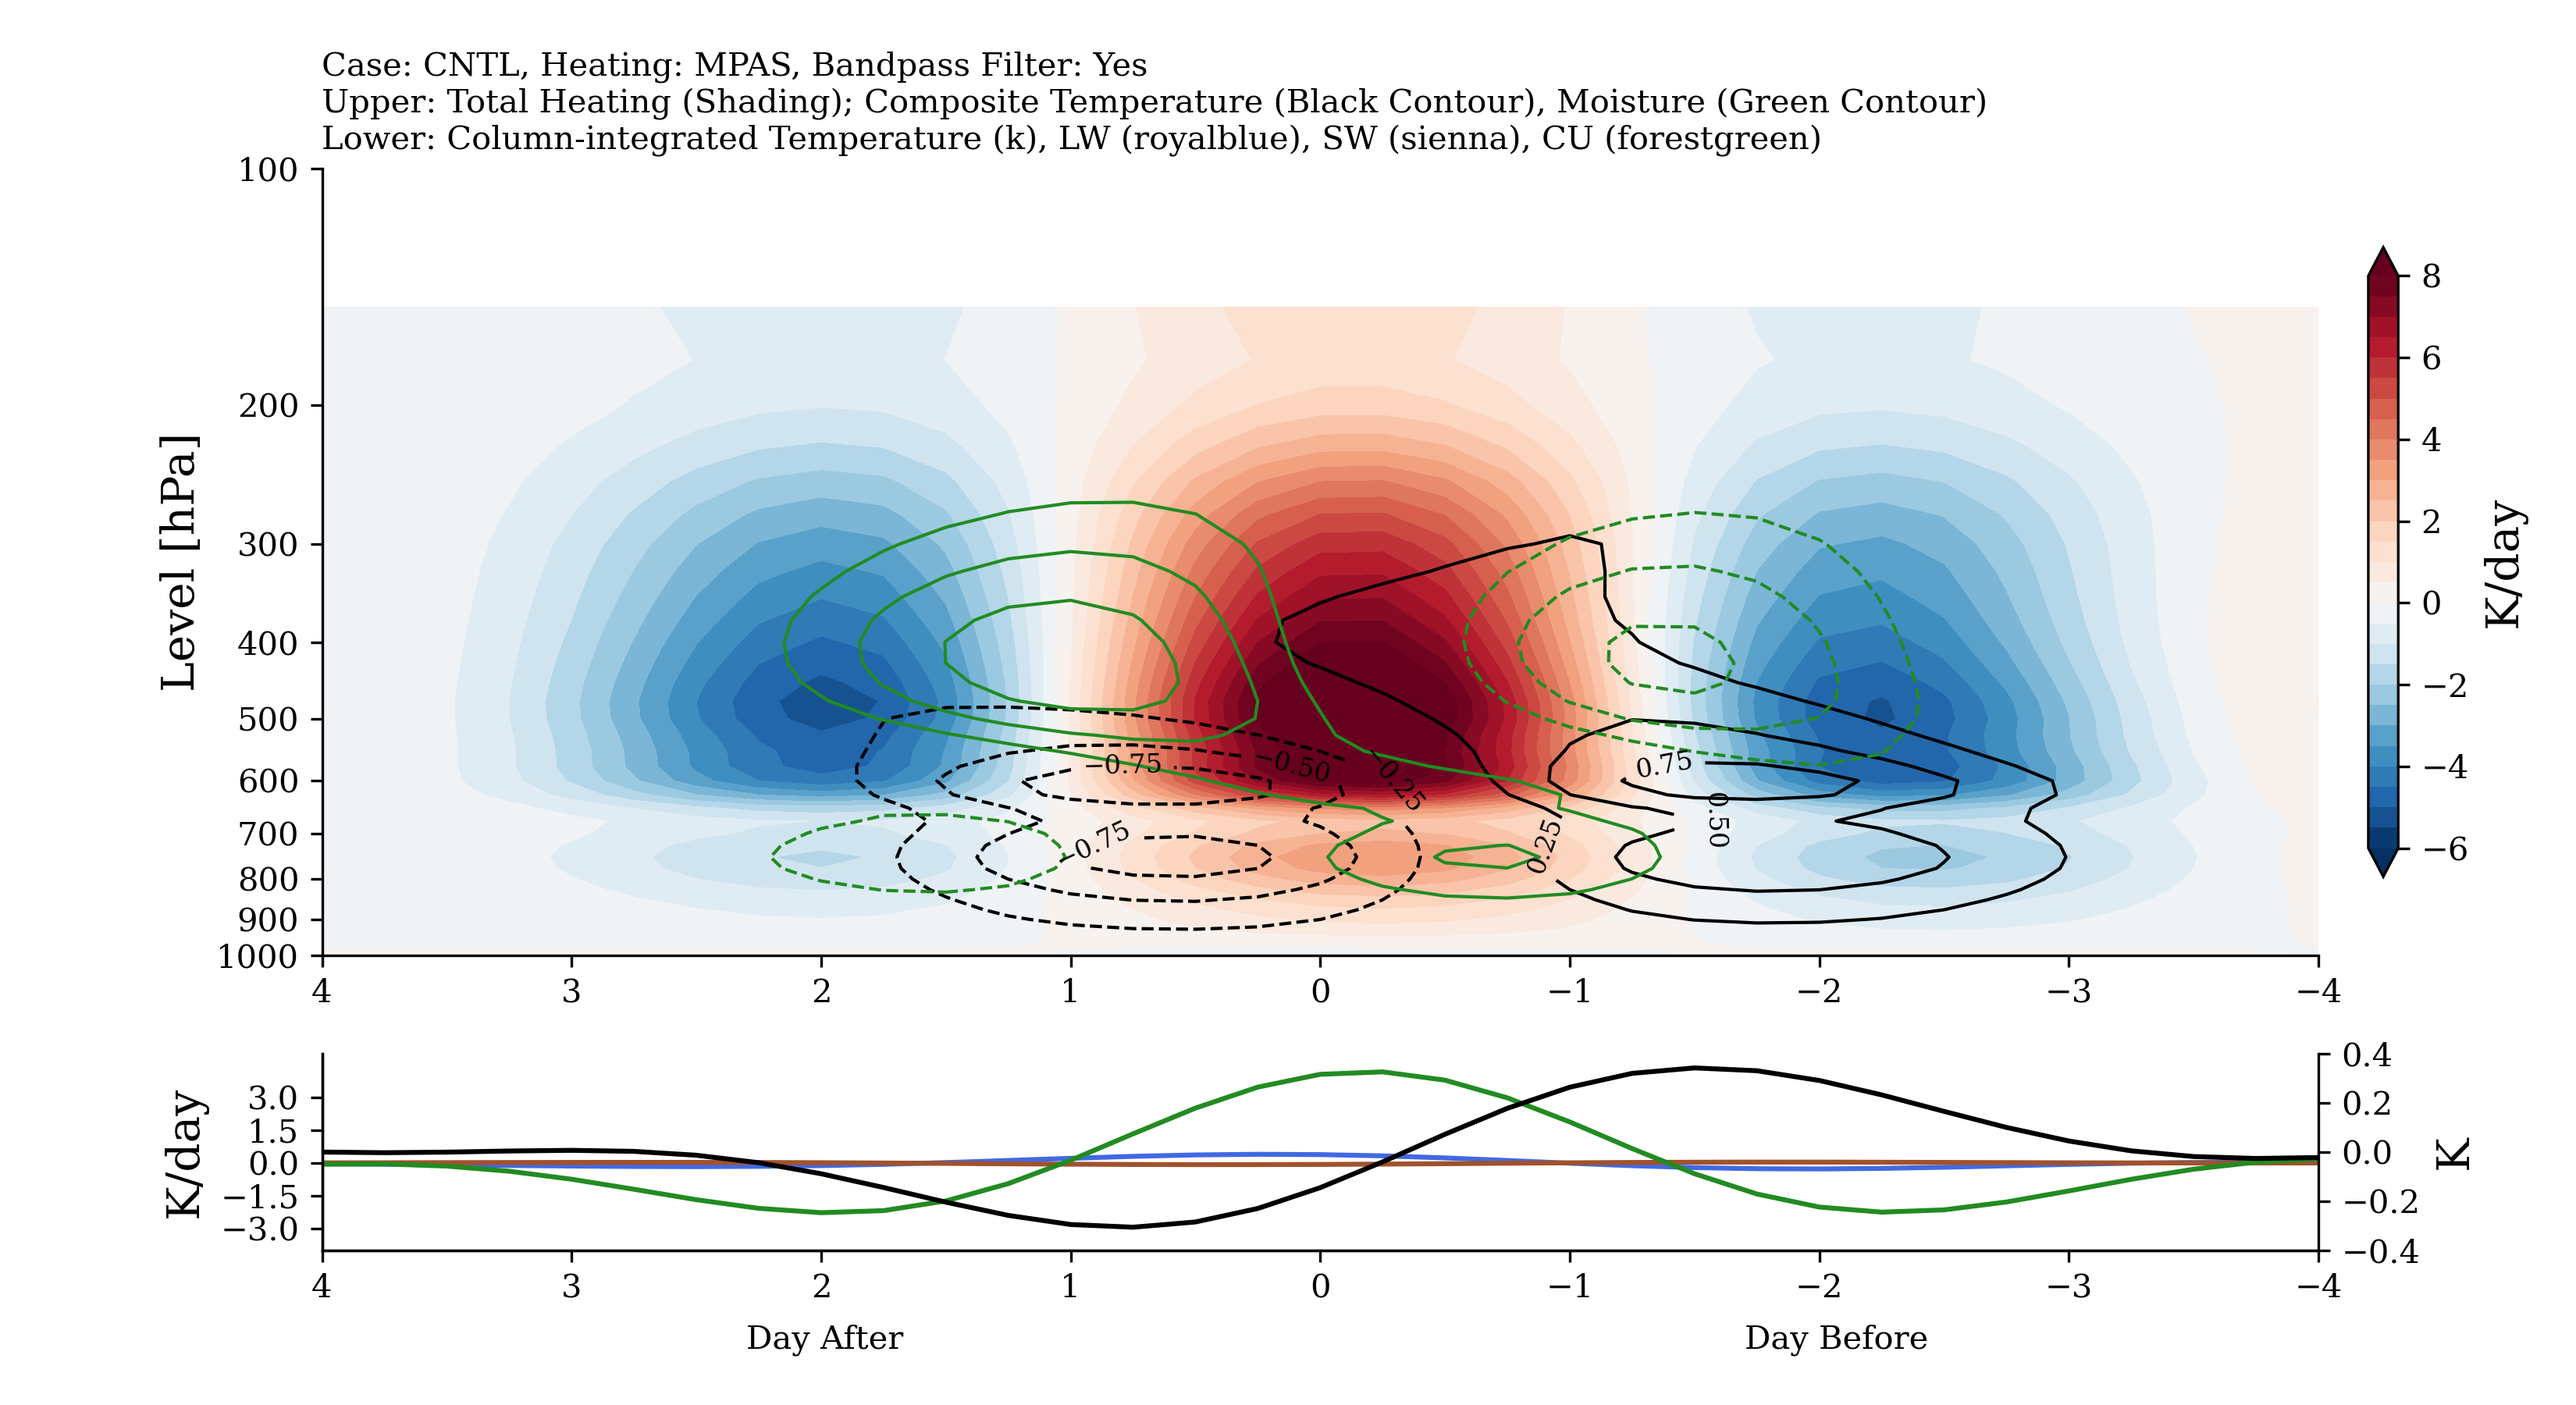
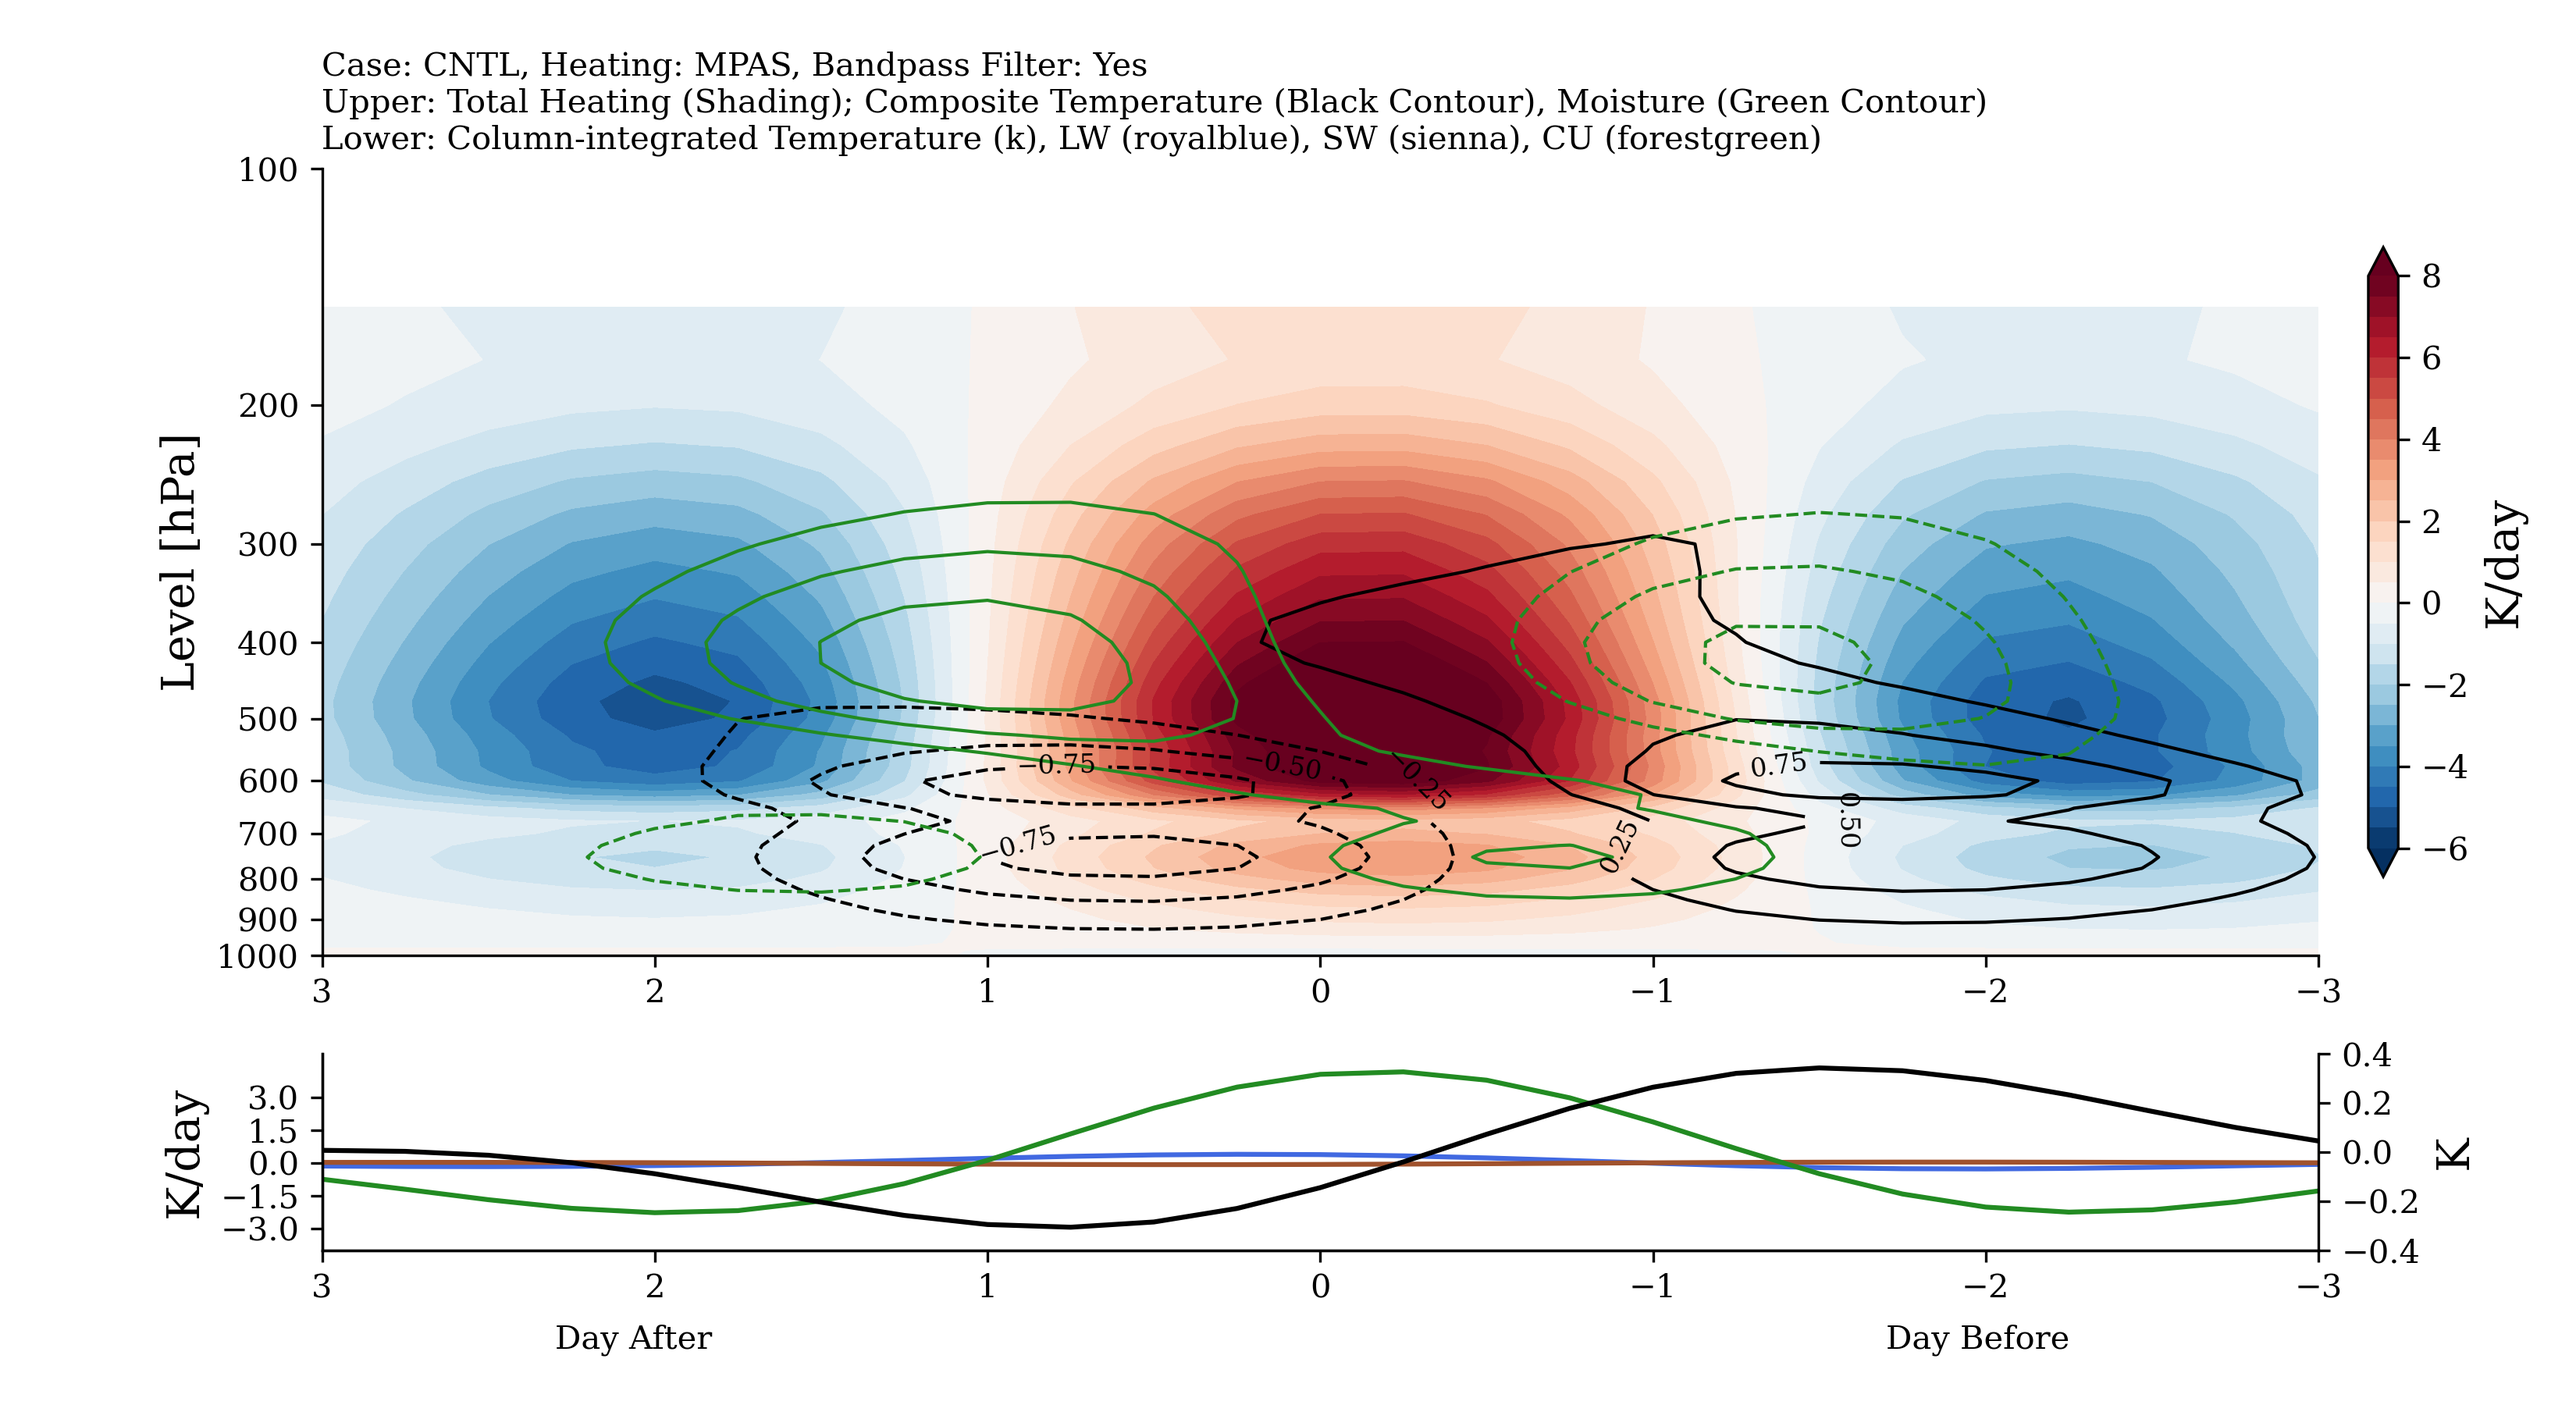
New bandpass composite figure

diff --git a/MPAS/Composite/Bandpass_composite/MPAS_sourced/mpas_comp.py b/MPAS/Composite/Bandpass_composite/MPAS_sourced/mpas_comp.py
@@ -158,11 +158,11 @@ reconstruct: dict[str, dict[str, np.ndarray]] = {
 # %% ================== Part 3: Select data ==================== #
 # setting the compositing interval
 time_itv = [
-    np.linspace(time_ref[i]-16, time_ref[i]+16, 33).astype(int)
+    np.linspace(time_ref[i]-12, time_ref[i]+12, 25).astype(int)
     for i in range(time_ref.size)
 ]
 
-time_ticks = np.linspace(-4, 4, 33)
+time_ticks = np.linspace(-3, 3, 25)
 
 # select data
 data_sel: dict[str, dict[str, np.ndarray]] = {
@@ -274,7 +274,7 @@ plt.gca().spines['right'].set_visible(False)
 plt.gca().spines['top'].set_visible(False)
 plt.yscale('log')
 ax1.set_yticks(np.linspace(100, 1000, 10), np.linspace(100, 1000, 10).astype(int))
-ax1.set_xlim(4, -4)
+ax1.set_xlim(3, -3)
 ax1.set_ylim(1000, 100)
 ax1.set_ylabel("Level [hPa]")
 plt.clabel(c1, inline=True, fontsize=8)
@@ -298,9 +298,9 @@ ax2.plot(
 )
 plt.gca().spines['right'].set_visible(False)
 plt.gca().spines['top'].set_visible(False)
-ax2.set_xlim(4, -4)
+ax2.set_xlim(3, -3)
 ax2.set_ylim(-4, 5)
-ax2.set_xticks(np.linspace(4, -4, 9))
+ax2.set_xticks(np.linspace(3, -3, 7))
 ax2.set_yticks([-3, -1.5, 0, 1.5, 3])
 ax2.set_ylabel('K/day')
 
